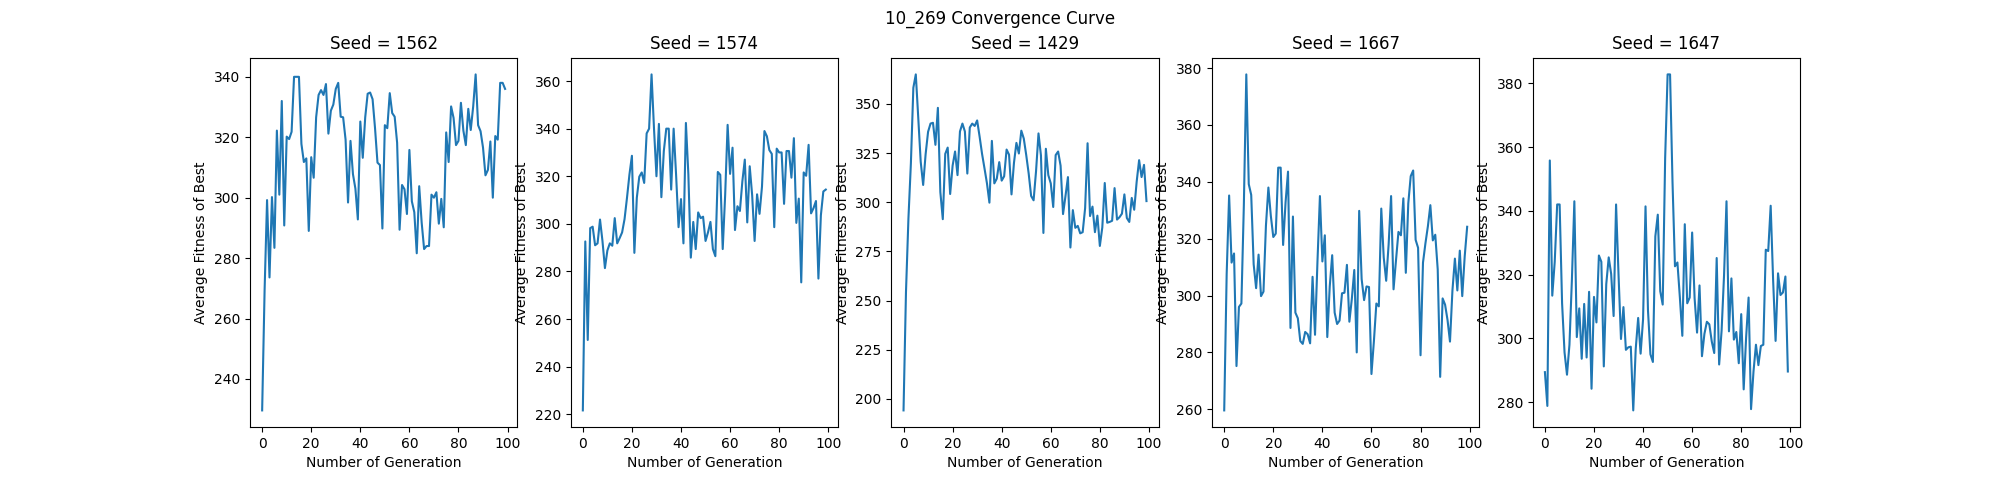
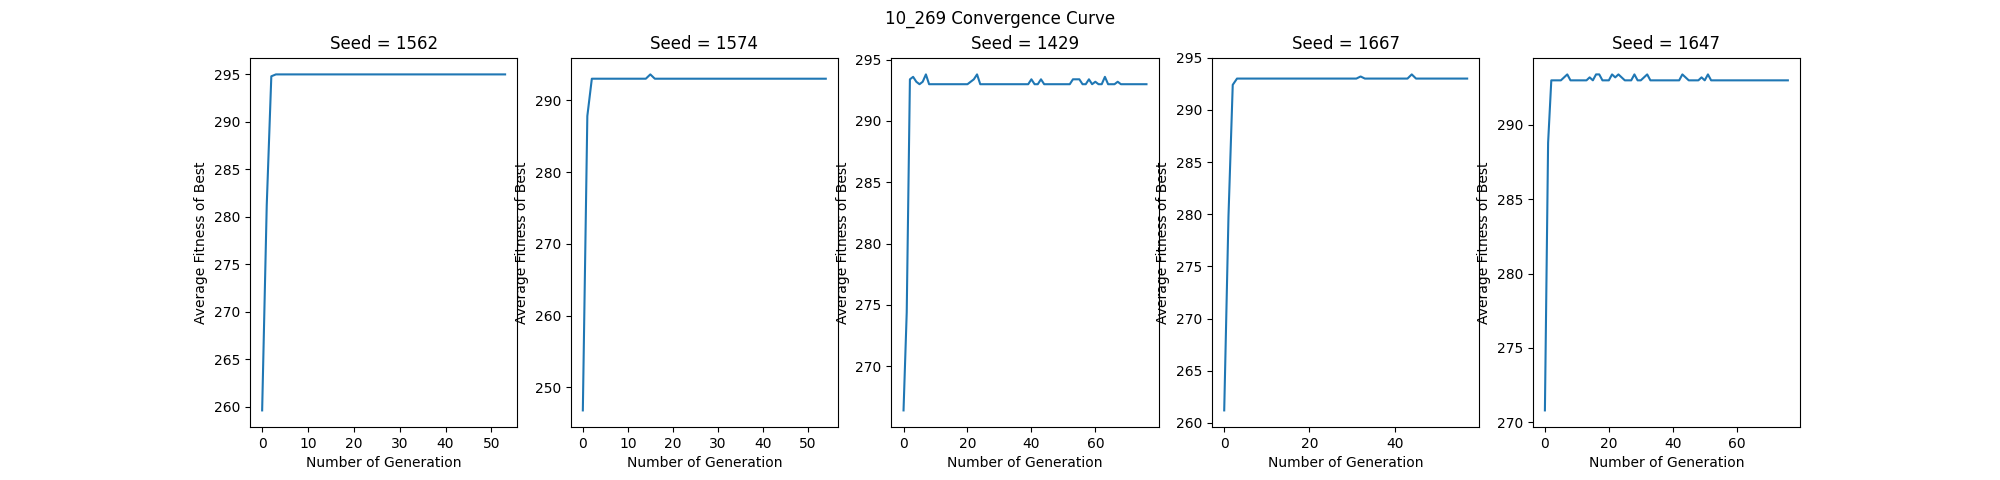
Added bibtex and started defining hyperparameters

diff --git a/eda_q2.py b/eda_q2.py
@@ -1,3 +1,4 @@
+from multiprocessing import current_process
 import matplotlib.pyplot as plt
 import pandas as pd
 import numpy as np
@@ -64,31 +65,42 @@ Returns several values: best solution, best solution's fitness, average of best 
 """
 
 def PBIL(
-    fitness_func, value_func, feature_num, rng, pop_size = 10, max_iter = 100,
+    fitness_func, value_func, feature_num, rng, pop_size = 100, max_iter = 1000, max_convergence_iter = 50,
     mut_rate = 0.02, mut_shift = 0.05, num_best = 5, num_worst = 5, max_p = 0.9, min_p = 0.1, learning_rate=0.1):
     p = np.linspace(start=0.5, stop=0.5, num=feature_num) #initialise prob vector
 
     best_individual = gen_individual(p, feature_num, rng) #initial random guess
     best_avg = [] #average fitness of num_best individuals for each generation
 
-    for i in range(max_iter):  #while not reached stopping criteria
+    iter_num = 0
+    convergence_iter = 0
+    prev_best_avg = -1.0
+    #for i in range(max_iter):  
+    while((iter_num < max_iter) & (convergence_iter < max_convergence_iter)):   #while not reached stopping criteria
         pop = [gen_individual(p, feature_num, rng) for _ in range(pop_size)] #use p vector to gen pop
         pop.sort(key=fitness_func, reverse=True)  #sort individuals by fitness
 
         best_individuals = pop[:num_best]
         worst_individuals = pop[pop_size - num_worst:]
 
-        #check if update function is correct
+        #calculate best average and check if converging currently
+        current_best_avg = np.average([value_func(best) for best in best_individuals])
+        if(np.abs(current_best_avg - prev_best_avg) < 0.00001):
+            convergence_iter += 1
+        prev_best_avg = current_best_avg
+        best_avg.append(current_best_avg)
+        best_individual = pop[0]
+
+        #update p
         p = update_prob(p, learning_rate, best_individuals)   #for best individuals
         p = update_prob(p, (-1.0 * learning_rate), worst_individuals)   #for worst individuals
-
-        #p = mutate_prob(p, mut_rate=mut_rate, mut_shift=mut_shift, rng=rng)   #mutate p
+        p = mutate_prob(p, mut_rate=mut_rate, mut_shift=mut_shift, rng=rng)   #mutate p
         p = np.array([np.maximum(np.minimum(p_i, max_p),min_p) for p_i in p])   #clamp p
 
-        best_avg.append(np.average([value_func(best) for best in best_individuals]))
-        best_individual = pop[0]
+        iter_num += 1
     
-    return best_individual, value_func(best_individual), best_avg, max_iter
+    print(iter_num)
+    return best_individual, value_func(best_individual), best_avg, iter_num
 
 """
 Fitness for knapsack problem which focus on finding highest value with weight constraint satisfied
@@ -97,6 +109,7 @@ def fitness_function(individual, dataset, penalty_coeff, max_weight):
     if(not individual.__contains__(1)): return 0.0    #to avoid empty knapsack situation
     values, weights = zip(*[ dataset.iloc[i] for i, pickup in enumerate(individual) if (pickup == 1)])
     return np.sum(values) - penalty_coeff*np.max([0.0, np.sum(weights) - capacity])
+    #return np.sum(values) - penalty_coeff*(np.sum(weights) - capacity)
 
 """
 Evaluates total sum of values in individual while ignoring weight constraint
@@ -112,13 +125,19 @@ if __name__ == "__main__":
     #store dataset as (num of items, bag capacity, data)
     datasets = [parse_data(filepath=filepath) for filepath in filepaths] #parse files
     dataset_names = ['10_269','23_10000','100_995']
+    #dataset parameters stored as (alpha, blah blah blah)
+    dataset_parameters = [
+        (3.0, 1), #10_269
+        (3.0, 1), #23_10000
+        (10.0, 1)  #100_995
+    ]
 
     fit_func = lambda ind : np.sum(ind)
     seeds = np.random.default_rng(seed=50).integers(low=0, high=2000, size=5)
 
-    alpha = 1.0 #penalty coefficient
-
     for i, (item_num, capacity, dataset) in enumerate(datasets):
+        current_parameters = dataset_parameters[i]
+
         fig, axis = plt.subplots(1, len(seeds))
         fig.set_figwidth(20)
         fig.suptitle(dataset_names[i]+' Convergence Curve')
@@ -129,7 +148,7 @@ if __name__ == "__main__":
         for j, seed in enumerate(seeds):
             print('\tfor seed',seed)
             best_ind, best_fitness, best_avg, num_iter = PBIL(
-                fitness_func=lambda x : fitness_function(individual=x, dataset=dataset, penalty_coeff=alpha, max_weight=capacity), 
+                fitness_func=lambda x : fitness_function(individual=x, dataset=dataset, penalty_coeff=current_parameters[0], max_weight=capacity), 
                 value_func=lambda x : value_fitness(individual=x, dataset=dataset),
                 feature_num=item_num, 
                 rng=np.random.default_rng(seed=seed)

diff --git a/report/report.tex b/report/report.tex
@@ -18,7 +18,15 @@ The goal for the problem is to find a combination of items that have the highest
 $max(0, \sum_{i=1}^{M}v_i - \alpha *max(0,\sum_{i=1}^{M}w_i)-max weight)$. 
 \end{center}
 Where $M=$ the number of chosen items in the solution, $v=$ value and $w=$ weight.
-
+\subsubsection*{EDA Algorithm}
+There are two algorithms to select from for this problem: UMDA and PBIL. UMBA calculates the probability vector as the mean vector of the current generation’s population’s individuals while PBIL's probability is influenced only by the best and worst individuals in the population. PBIL focuses more on exploitation compared to UMDA since PBIL ignores individuals in the population that UMDA considers. But exploration can be implemented into PBIL using the mutation operator, something that UMDA does not have. This balance between exploitation and exploration means that PBIL was chosen for this problem. \par
+\subsubsection*{PBIL Design}
+\subsubsection*{EDA Parameters}
+\cite{baluja1994population}
 \subsection*{Results and Discussion}
 \subsection*{Conclusion}
+
+\bibliographystyle{acm}
+\bibliography{references}
+
 \end{document}
